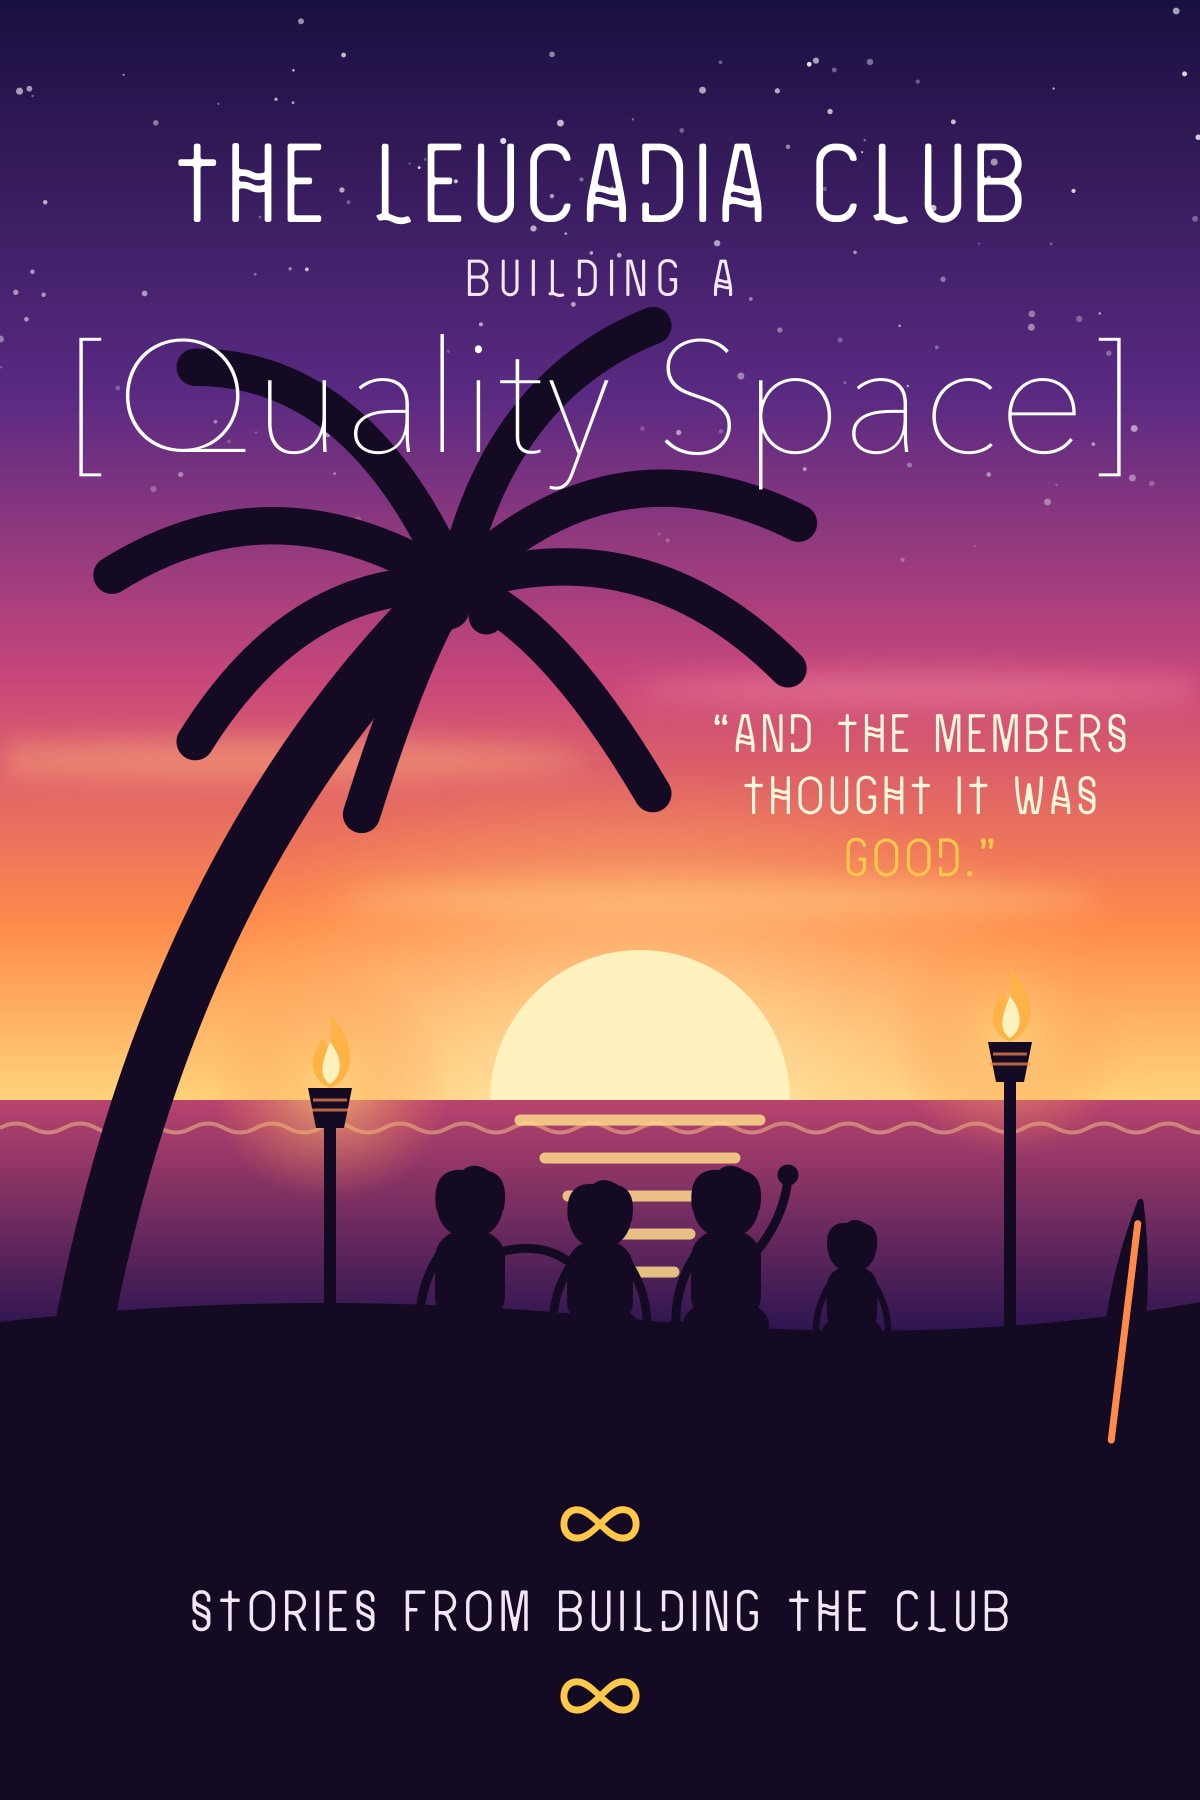
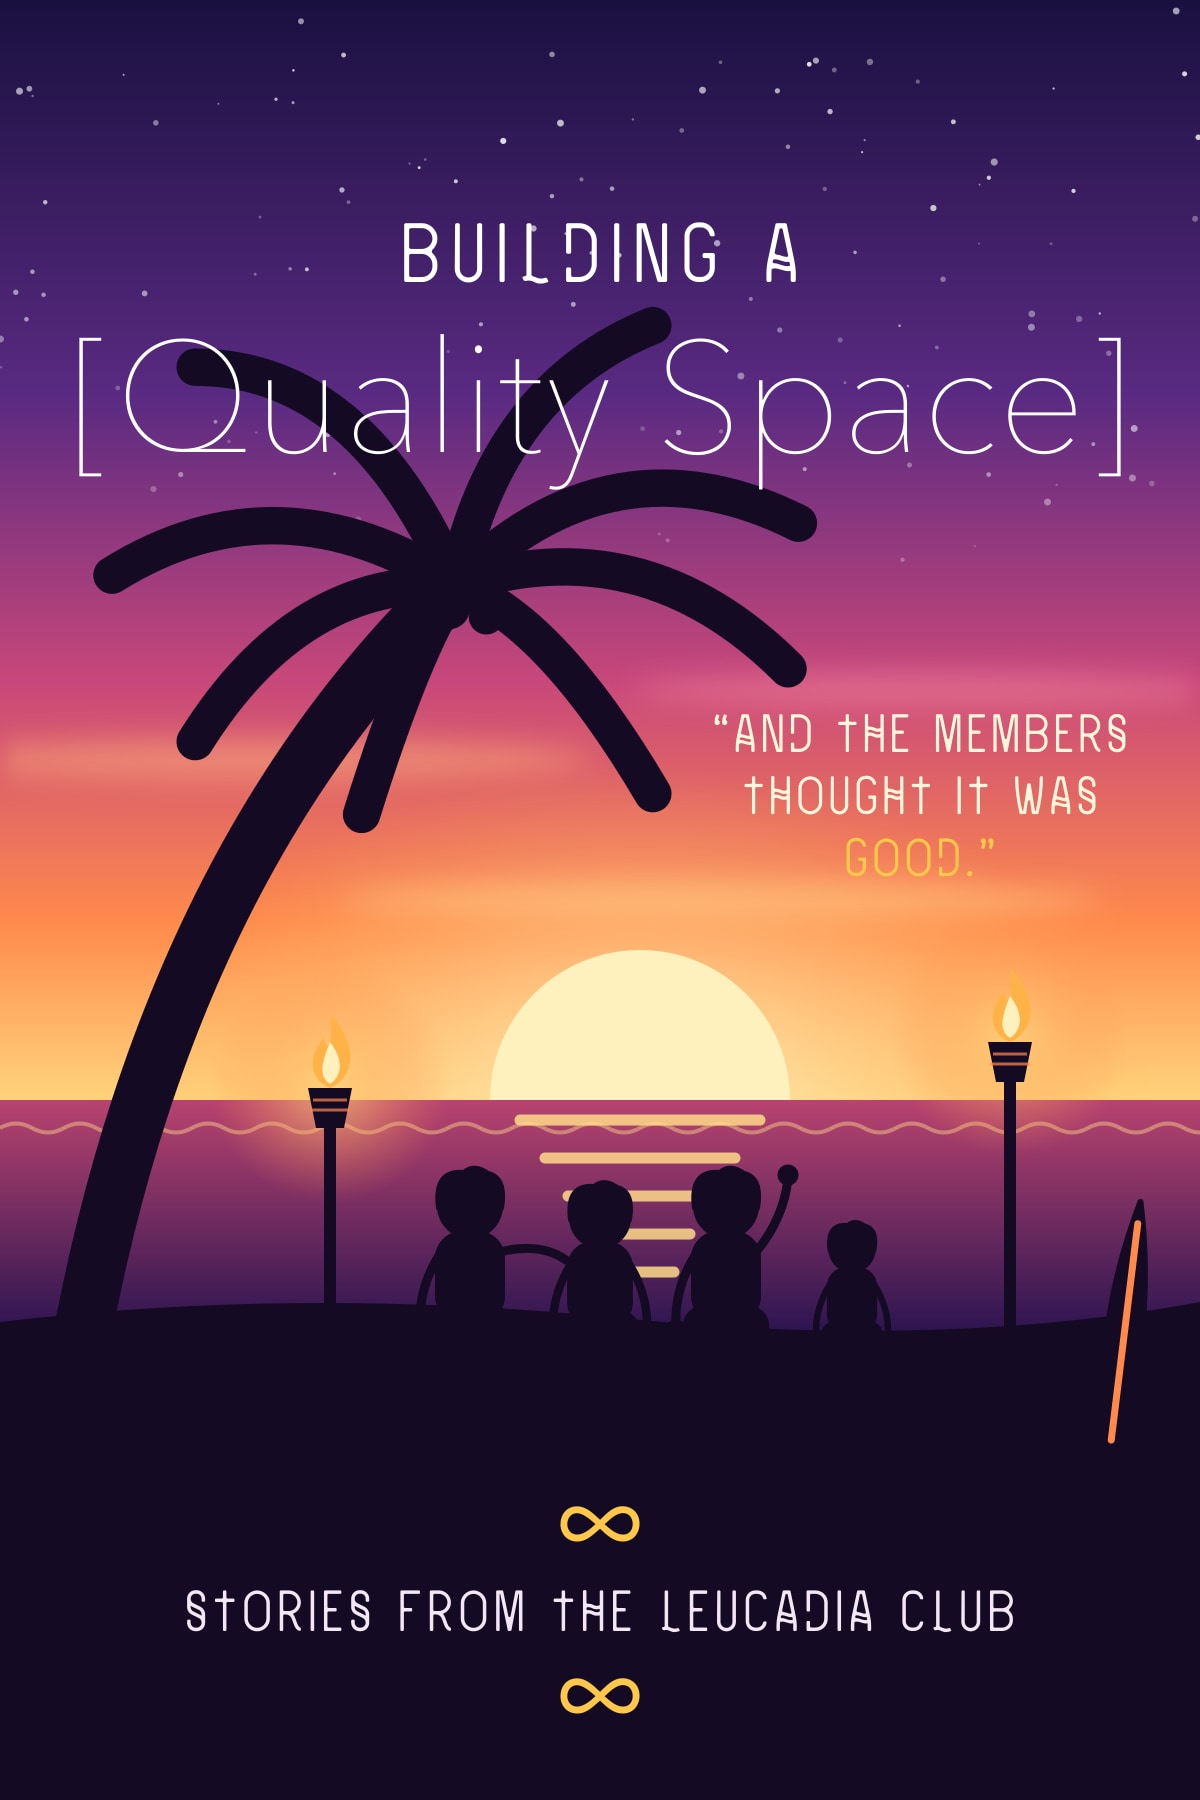
Quality Space: the book is now Building a [Quality Space], Stories from The Leucadia Club
Both covers are redrawn with the new words (BUILDING A / [Quality Space] at the top,
STORIES FROM THE LEUCADIA CLUB at the bottom). The page title, the line over the
story and epigraph pages, the hub row and the links from the club pages use the new name.

diff --git a/design/quality-space-cover/covers.tsx b/design/quality-space-cover/covers.tsx
@@ -1,4 +1,4 @@
-// The covers of "The Leucadia Club: Building a [Quality Space]".
+// The covers of "Building a [Quality Space]: Stories from The Leucadia Club".
 //
 // The first book's cover (night sky, a tree arching over, thin bracketed title, ∞) blended with
 // the club's cartoon style (round-headed friends, flat shapes). Each cover is one picture drawn
@@ -153,10 +153,7 @@ const FIRST_BOOK: Type = { caps: ZEN, capsWeight: 400, big: MONT, bigWeight: 100
 function Title({ color, gold, soft, type }: { color: string; gold: string; soft: string; type: Type }) {
   return (
     <g fill={color} textAnchor="middle">
-      <text x={W / 2} y={222} fontFamily={type.caps} fontWeight={type.capsWeight} fontSize={112} letterSpacing={type.track}>
-        THE LEUCADIA CLUB
-      </text>
-      <text x={W / 2} y={296} fontFamily={type.caps} fontWeight={type.capsWeight} fontSize={52} letterSpacing={type.track + 3} fill={soft}>
+      <text x={W / 2} y={282} fontFamily={type.caps} fontWeight={type.capsWeight} fontSize={84} letterSpacing={type.track + 4}>
         BUILDING A
       </text>
       <text x={W / 2} y={452} fontFamily={type.big} fontWeight={type.bigWeight} fontSize={type.bigSize} letterSpacing={1}>
@@ -166,7 +163,7 @@ function Title({ color, gold, soft, type }: { color: string; gold: string; soft:
         ∞
       </text>
       <text x={W / 2} y={1631} fontFamily={type.caps} fontWeight={type.capsWeight} fontSize={58} letterSpacing={type.track - 1} fill={soft}>
-        STORIES FROM BUILDING THE CLUB
+        STORIES FROM THE LEUCADIA CLUB
       </text>
       <text x={W / 2} y={1726} fontFamily={THIN} fontWeight={300} fontSize={120} fill={gold}>
         ∞

diff --git a/static/lc/book.css b/static/lc/book.css
@@ -1,4 +1,4 @@
-/* The book's pages (The Leucadia Club: Building a [Quality Space]) in the look of
+/* The book's pages (Building a [Quality Space]: Stories from The Leucadia Club) in the look of
    LeucadiaClub.com. The look itself is studio.css, copied from the club portal; this file
    only adds the pieces the club home page does not have: story rows, book covers, a
    reading page, an epigraph and a chapter list. Load it after studio.css. */

diff --git a/content/phaedrus/_index.md b/content/phaedrus/_index.md
@@ -208,8 +208,8 @@ heroLede: "The ghost in the machine, documented. Internal reference pages for ho
   <a class="page-row" href="/phaedrus/quality-space/">
     <div class="row-icon">📖</div>
     <div class="row-main">
-      <div class="row-title">The Leucadia Club — Building a [Quality Space]</div>
-      <p class="row-desc">Stories from building the club.</p>
+      <div class="row-title">Building a [Quality Space]</div>
+      <p class="row-desc">Stories from The Leucadia Club.</p>
       <div class="row-improve">
         <div class="improve-label">Improve next</div>
         <ul>
@@ -221,9 +221,9 @@ heroLede: "The ghost in the machine, documented. Internal reference pages for ho
     <div class="row-activity">
       <div class="activity-label">Recent</div>
       <ul>
+        <li><span class="act-date">11/22</span> Renamed: Building a [Quality Space], Stories from The Leucadia Club</li>
         <li><span class="act-date">11/22</span> Both covers, the epigraph and five chapters; the story page has the new look</li>
         <li><span class="act-date">11/21</span> New look, like LeucadiaClub.com, and a book cover</li>
-        <li><span class="act-date">11/21</span> First story: The Face at the Door</li>
       </ul>
     </div>
   </a>

diff --git a/content/phaedrus/quality-space/_index.md b/content/phaedrus/quality-space/_index.md
@@ -1,5 +1,5 @@
 ---
-title: "The Leucadia Club: Building a [Quality Space]"
+title: "Building a [Quality Space]: Stories from The Leucadia Club"
 layout: lc-studio
 kicker: "Building a"
 heroTitle: "[Quality Space]"
@@ -10,10 +10,10 @@ cover: "/lc/quality-space-cover.jpg"
 covers:
   - src: "/lc/quality-space-cover.jpg"
     caption: "Tiki lounge"
-    alt: "Book cover, Tiki lounge. Friends sit on the beach at sunset under a palm, next to a tiki bar with string lights. Title: The Leucadia Club, Building a [Quality Space]."
+    alt: "Book cover, Tiki lounge. Friends sit on the beach at sunset under a palm, next to a tiki bar with string lights. Title: Building a [Quality Space]. Stories from The Leucadia Club."
   - src: "/lc/quality-space-cover-torches.jpg"
     caption: "Tiki torches"
-    alt: "Book cover, Tiki torches. Friends sit on the beach under a palm at a purple and orange sunset, between two tiki torches. Title: The Leucadia Club, Building a [Quality Space]."
+    alt: "Book cover, Tiki torches. Friends sit on the beach under a palm at a purple and orange sunset, between two tiki torches. Title: Building a [Quality Space]. Stories from The Leucadia Club."
 open:
   href: "/phaedrus/quality-space/epigraph/"
   label: "Open the book"

diff --git a/design/quality-space-cover/README.md b/design/quality-space-cover/README.md
@@ -1,4 +1,4 @@
-# The covers of "The Leucadia Club: Building a [Quality Space]"
+# The covers of "Building a [Quality Space]: Stories from The Leucadia Club"
 
 The two covers on `/phaedrus/quality-space/` are drawn by code, not by hand. Change the code,
 run one command, and the pictures on the site are replaced.
@@ -28,7 +28,7 @@ straight into `static/lc/`. To look before replacing them, give it another folde
 
 Everything is in `covers.tsx`. The top of that file says where each thing lives. In short:
 
-- **Words:** `Title()` (the three title lines and the bottom line with the ∞ marks) and
+- **Words:** `Title()` (the two title lines and the bottom line with the ∞ marks) and
   `Quote()` (the line above the friends).
 - **Colours:** `LAGOON` (Tiki lounge) and `AFTERGLOW` (Tiki torches).
 - **The scene:** `Scene()` places the palm, the friends, the sun and the extras. Each piece

diff --git a/content/phaedrus/content/_index.md b/content/phaedrus/content/_index.md
@@ -37,7 +37,7 @@ heroLede: "Longer-form work product — series plans, chapter drafts, and manusc
     <div class="row-icon">📖</div>
     <div class="row-main">
       <div class="row-title">Building a [Quality Space] — Epigraph and chapters</div>
-      <p class="row-desc">The line the Leucadia Club book opens with, and its five chapters.</p>
+      <p class="row-desc">The line the book opens with, and its five chapters. Stories from The Leucadia Club.</p>
       <div class="row-improve">
         <div class="improve-label">Improve next</div>
         <ul>

diff --git a/content/phaedrus/leucadia-club-story/index.md b/content/phaedrus/leucadia-club-story/index.md
@@ -427,7 +427,7 @@ This page is unlisted and marked noindex, but it is still public. So it leaves o
 
 Latest: [Leucadia Club · November 18, 2026](/phaedrus/leucadia-club-review-2026-11-18/)
 
-Book: [The Leucadia Club — Building a [Quality Space]](/phaedrus/quality-space/)
+Book: [Building a [Quality Space]: Stories from The Leucadia Club](/phaedrus/quality-space/)
 
 [^1]: Added 10/25/2026. That day John set Lucy up as her own Grok Bot, with her own webhook routine.
 [^2]: Added 10/25/2026. The cartoon image replies went live that day.

diff --git a/content/phaedrus/leucadia-club/index.md b/content/phaedrus/leucadia-club/index.md
@@ -83,4 +83,4 @@ If you know a member, ask them about the club. If you don't yet, we're happy to 
 
 About a quarter of members have a tie to life sciences, and about a third advise, audit, insure or fund other businesses.
 
-Book: [The Leucadia Club — Building a [Quality Space]](/phaedrus/quality-space/)
+Book: [Building a [Quality Space]: Stories from The Leucadia Club](/phaedrus/quality-space/)

diff --git a/content/phaedrus/quality-space/face-at-the-door/index.md b/content/phaedrus/quality-space/face-at-the-door/index.md
@@ -1,7 +1,7 @@
 ---
 title: "The Face at the Door"
 layout: lc-studio-page
-eyebrow: "The Leucadia Club — Building a [Quality Space]"
+eyebrow: "Building a [Quality Space]"
 heroTitle: "The Face at the Door"
 heroMeta: "Saturday, November 21, 2026 · John Zdanowski"
 date: 2026-11-21

diff --git a/content/phaedrus/quality-space/epigraph/index.md b/content/phaedrus/quality-space/epigraph/index.md
@@ -1,7 +1,7 @@
 ---
 title: "Epigraph and chapters"
 layout: lc-studio-page
-eyebrow: "The Leucadia Club — Building a [Quality Space]"
+eyebrow: "Building a [Quality Space]"
 heroTitle: "Epigraph"
 summary: "The line the book opens with, and its five chapters."
 date: 2026-11-22
